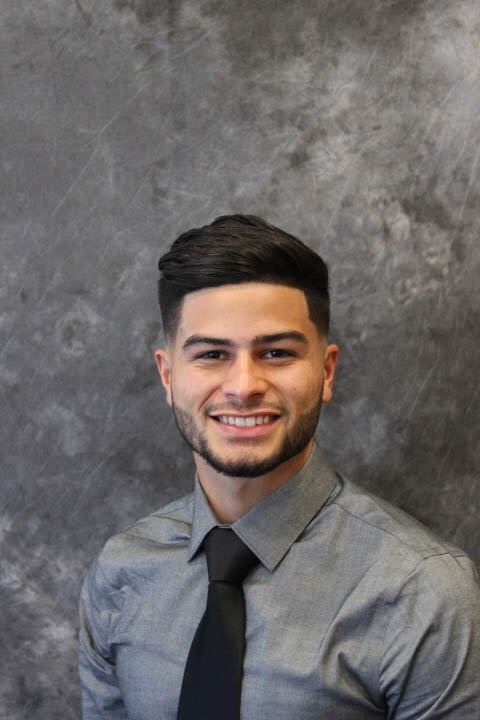
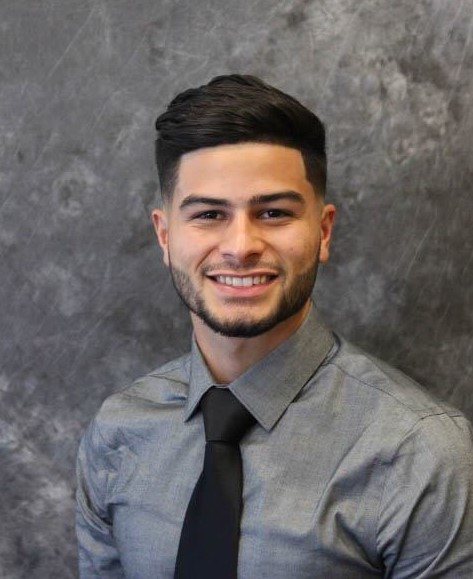
Finally got image

diff --git a/src/components/about/AboutMe.js b/src/components/about/AboutMe.js
@@ -1,5 +1,6 @@
 import React from "react";
 import { Container, Row, Col, Image } from "react-bootstrap";
+import Img from "./profile-pic.png";
 
 class AboutMe extends React.Component {
     render() {
@@ -19,7 +20,15 @@ class AboutMe extends React.Component {
                         </Col>
                     </Row>
                     <Row className="justify-content-md-center">
-                        <Image src="profile-pic.png" alt="Pic"></Image>
+                        <Col md="auto">
+                            <Image
+                                src={Img}
+                                alt="Profile Picture"
+                                style={styles.image}
+                                rounded
+                            ></Image>
+                        </Col>
+                        <Col md="auto">Hello there,</Col>
                     </Row>
                 </Container>
             </div>
@@ -31,6 +40,7 @@ const styles = {
     container: {
         // padding: "21.13%",
     },
+    image: { width: 251, height: 290 },
 };
 
 export default AboutMe;

diff --git a/src/components/education/Education.js b/src/components/education/Education.js
@@ -1,14 +1,14 @@
 import React from "react";
 import { Container, Row, Col } from "react-bootstrap";
 
-class Experience extends React.Component {
+class Education extends React.Component {
     render() {
         return (
             <div>
                 <Container style={styles.container} fluid>
                     <Row className="justify-content-md-center">
                         <Col md="auto">
-                            <p className="display-4">Experience</p>
+                            <p className="display-4">Education</p>
                         </Col>
                     </Row>
                     <Row className="justify-content-md-center">
@@ -27,7 +27,8 @@ class Experience extends React.Component {
 const styles = {
     container: {
         // padding: "21.13%",
+        backgroundColor: "#eee",
     },
 };
 
-export default Experience;
+export default Education;

diff --git a/src/App.js b/src/App.js
@@ -6,6 +6,7 @@ import Projects from "./components/projects/Projects";
 import Experience from "./components/experience/Experience";
 import ContactMe from "./components/contact/ContactMe";
 import Skills from "./components/skills/Skills";
+import Education from "./components/education/Education";
 
 class App extends React.Component {
     render() {
@@ -16,6 +17,7 @@ class App extends React.Component {
                 <AboutMe />
                 <Skills />
                 <Projects />
+                <Education />
                 <Experience />
                 <ContactMe />
             </div>
